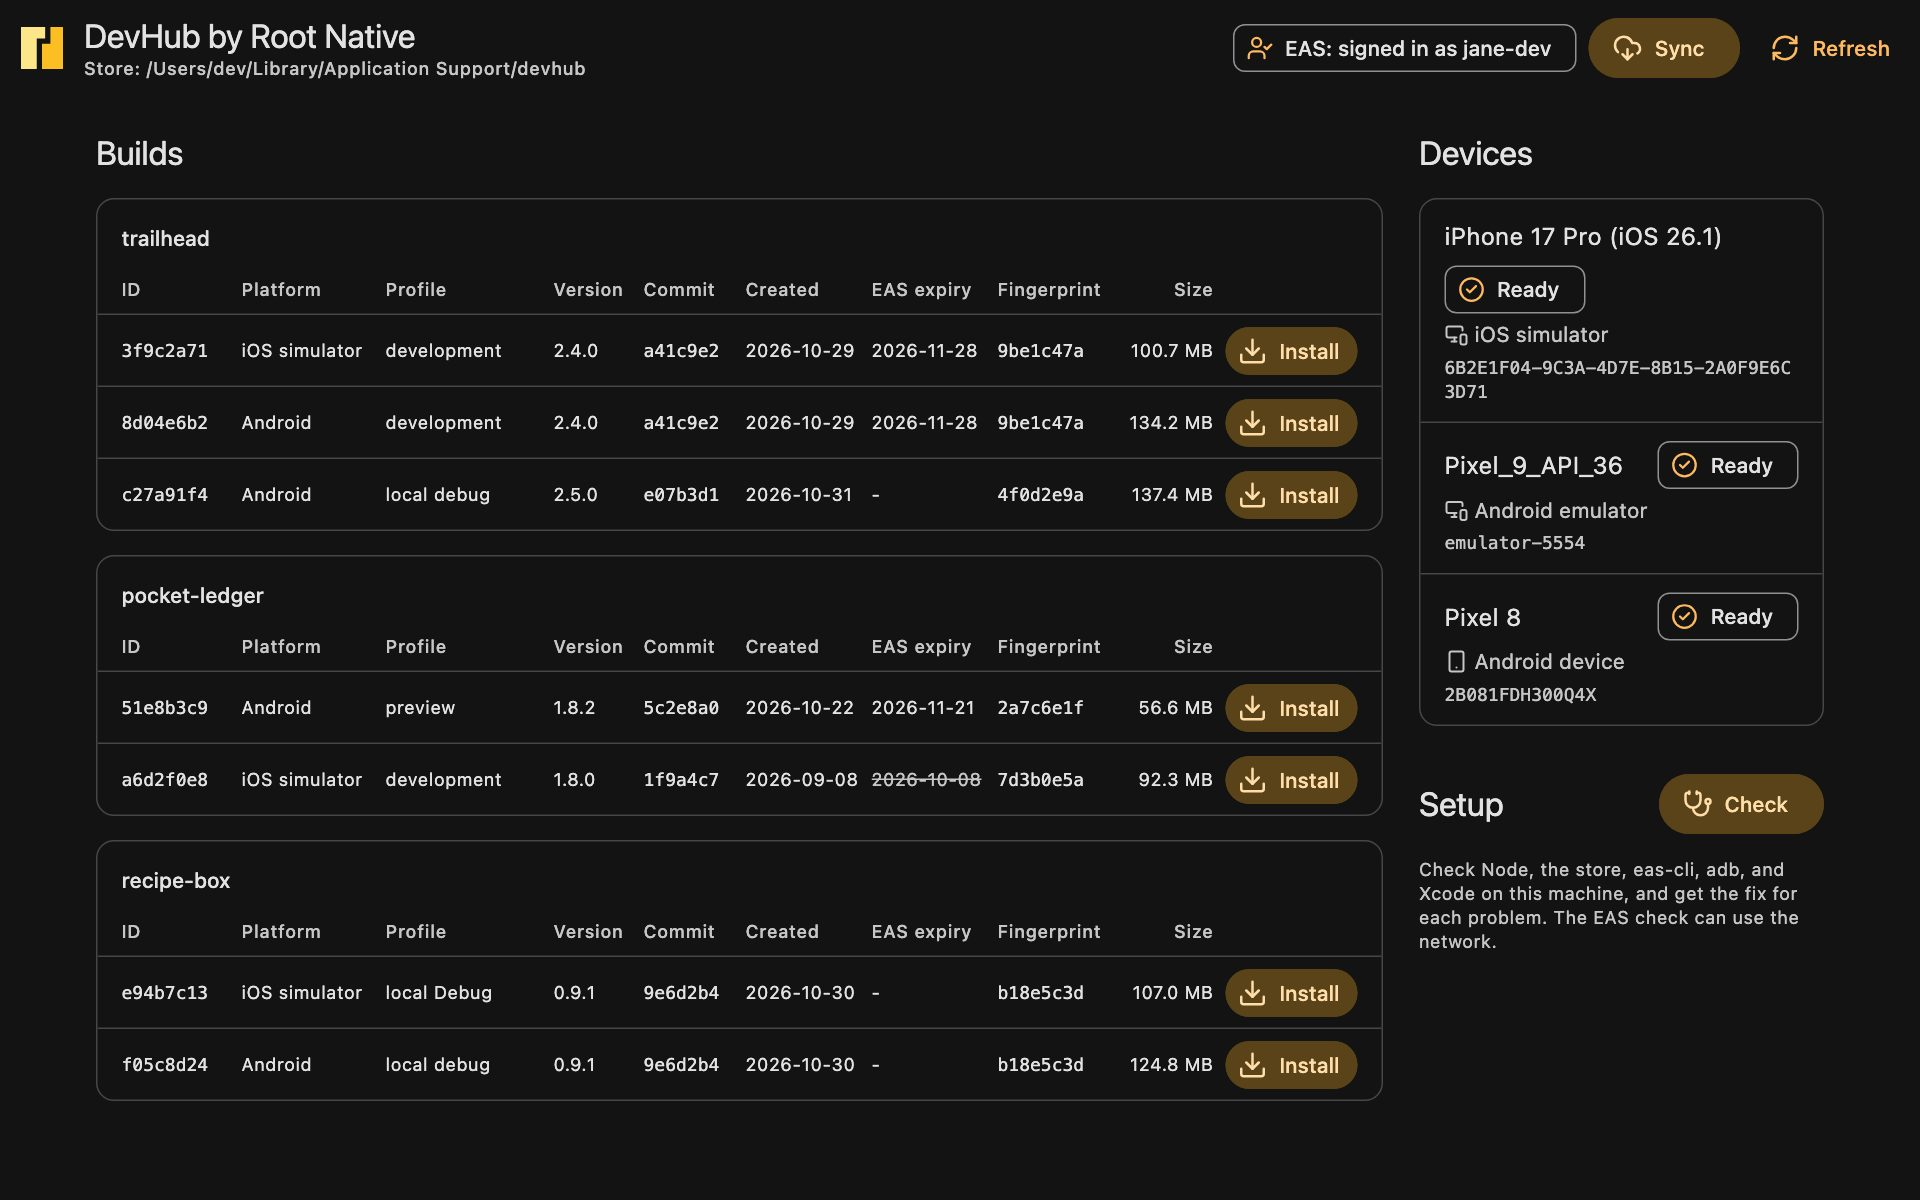
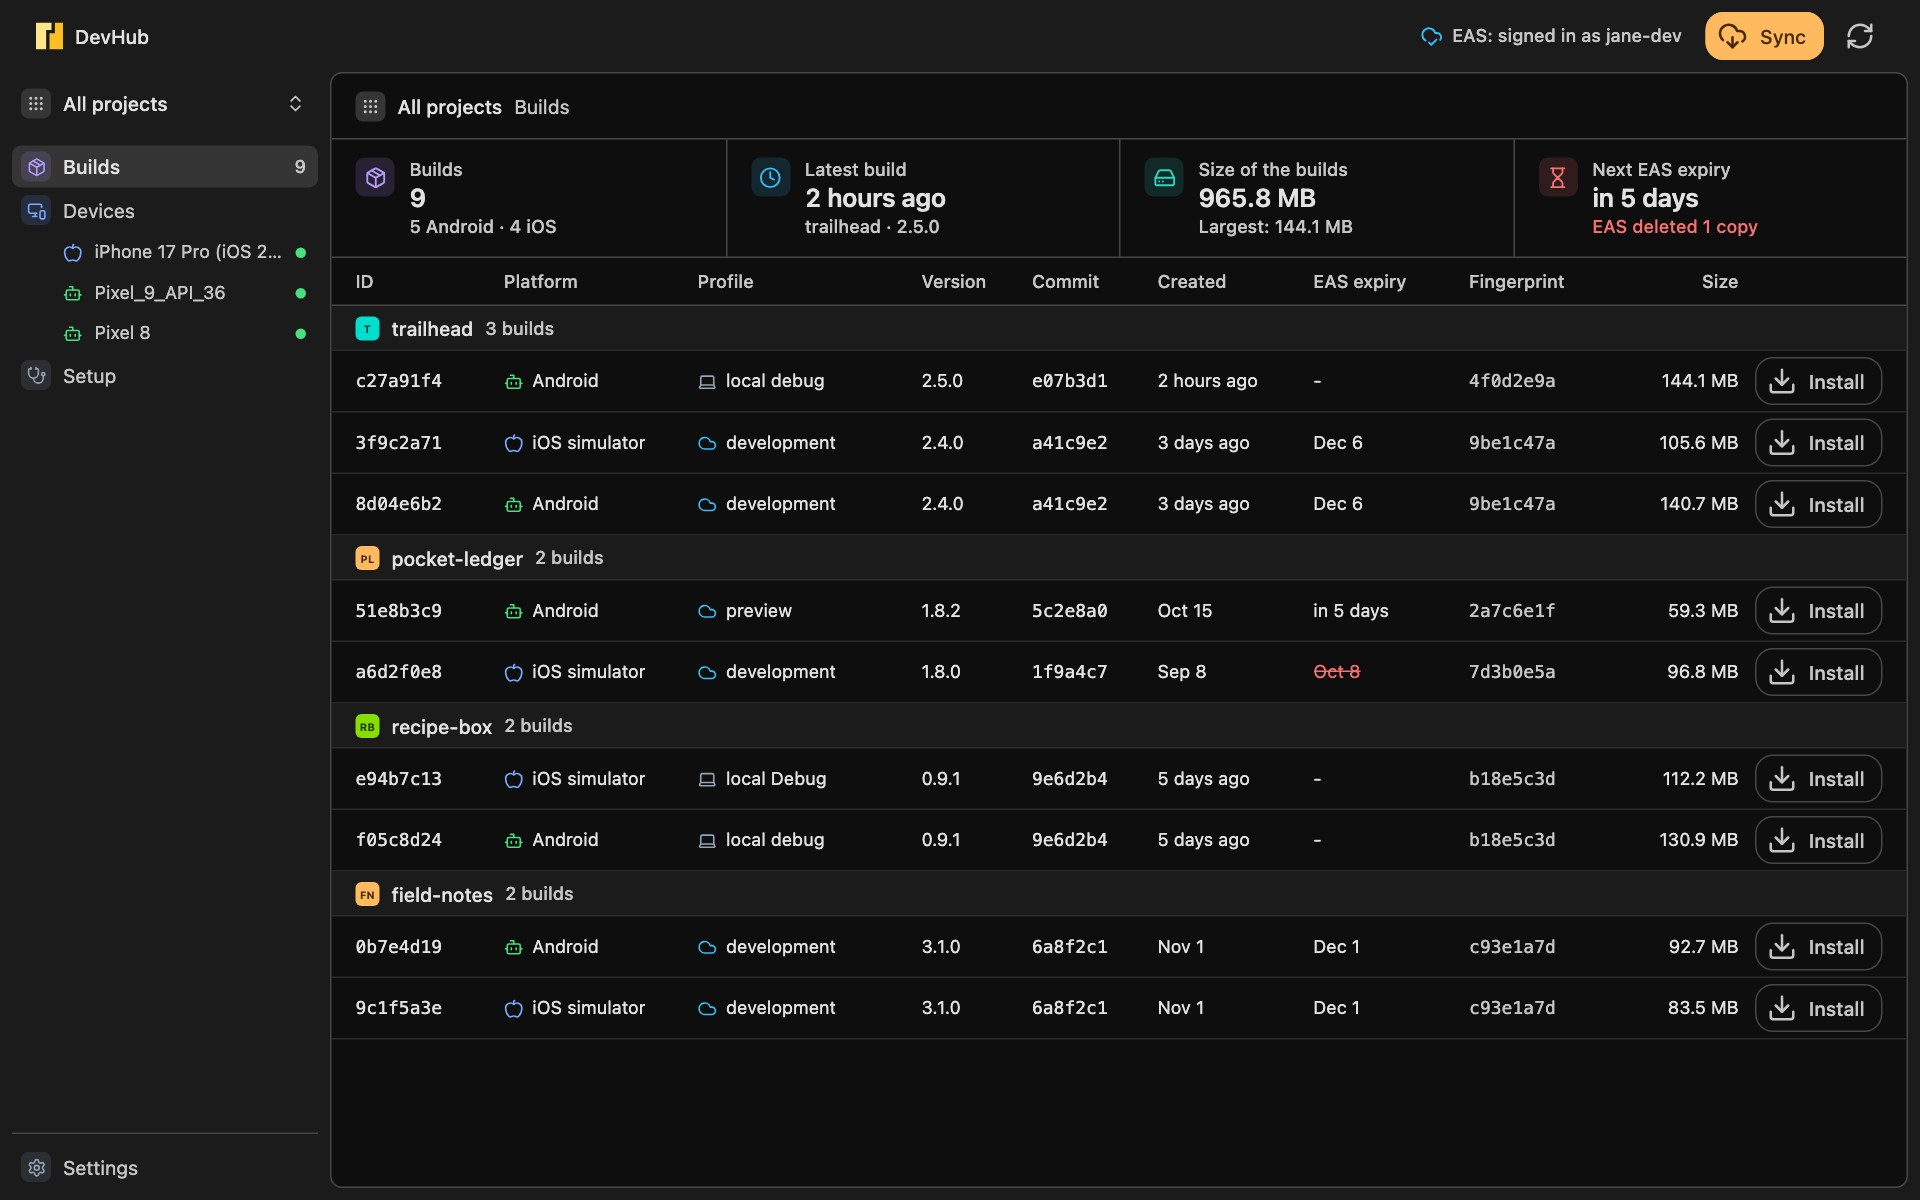
docs: restructure the README and update the page screenshots

diff --git a/README.md b/README.md
@@ -26,9 +26,11 @@
 <p align="center">
   <a href="https://rootnative.github.io/devhub/"><b>Read the docs</b></a>
   ·
+  <a href="#-commands">Commands</a>
+  ·
   <a href="#-quick-start">Quick start</a>
   ·
-  <a href="#-commands">Commands</a>
+  <a href="https://rootnative.github.io/devhub/introduction/">Documentation</a>
   ·
   <a href="https://rootnative.github.io/devhub/llms.txt">LLM docs</a>
 </p>
@@ -36,59 +38,46 @@
 <p align="center">
   <picture>
     <source media="(prefers-color-scheme: dark)" srcset="assets/docs/screenshots/page-dark.jpg" />
-    <img src="assets/docs/screenshots/page-light.jpg" alt="The devhub ui page: three projects with their builds in tables, three ready devices, and the setup check" width="100%" />
+    <img src="assets/docs/screenshots/page-light.jpg" alt="The devhub ui page: a sidebar with the projects, three ready devices, and the setup, a summary of the builds, and the builds of four projects in one table with an Install button on each row" width="100%" />
   </picture>
-  <br />
-  <sub>The <code>devhub ui</code> page on <code>main</code>, with made-up projects. The next release ships this design.</sub>
 </p>
 
-> **Status:** alpha. The CLI, the local page, and the Expo build cache
-> provider are on npm. The desktop app and the launch of an app are not
+> **Status:** an alpha. The CLI, the local page, and the Expo build cache
+> provider are on npm. The desktop app and the launch of an app aren't
 > released yet. Each alpha can change the CLI and its JSON output. The
-> [CHANGELOG](packages/devhub/CHANGELOG.md) lists what each version has.
+> [changelog](packages/devhub/CHANGELOG.md) lists what each version has.
 
 ## ✨ Features
 
-| Feature | What it does | State |
-| --- | --- | --- |
-| **Keep your EAS builds** | `devhub sync` downloads each finished EAS dev client build before EAS deletes it. `devhub sync --all` syncs each project that `devhub sync` saw before. | On npm |
-| **One library for all projects** | One store folder, outside your projects, holds every build of every project. | On npm |
-| **Match by fingerprint** | `devhub match` calculates the native fingerprint with the project's own `@expo/fingerprint`, and shows the stored builds with the same hash. | On npm |
-| **Keep your local builds** | As an Expo build cache provider, DevHub stores each build of `npx expo run:*`, and installs a stored build when the native code did not change. | On npm |
-| **Install in one step** | `devhub install` installs a stored build on a ready emulator, a USB Android device, or a booted iOS simulator. It checks the SHA-256 of the file first. | On npm |
-| **The local page** | `devhub ui` opens a page with the builds, the devices, an install button, and a sync button. | On npm |
-| **Setup checks** | `devhub doctor` checks Node, the store, eas-cli, adb, and Xcode, and gives the fix for each problem. | On npm |
-| **JSON for scripts and agents** | Each command takes `--json`. The `llms.txt` file in the package gives the help, the JSON types, and the API. | On npm |
-| **No telemetry** | DevHub uses the network only for EAS. It never reads, asks for, or stores your EAS token. | On npm |
-| **Desktop app** | The local page in a desktop window, with a daily sync in the background. | In code, not released |
-| **Launch** | Boot a device, install the build, and open the app with Metro or an EAS Update, in one action. | Planned |
-| **Profiles, prune, and import** | Saved pairs of a device and a build, rules that delete old builds, and the import of an `.apk`, `.aab`, or `.app` file. | Planned |
+| Feature | What it does |
+| --- | --- |
+| **Keep your EAS builds** | `devhub sync` downloads each finished EAS dev client build before EAS deletes it. `devhub sync --all` syncs each project that `devhub sync` saw before. |
+| **One library for all projects** | One store folder, outside your projects, holds every build of every project. |
+| **Match by fingerprint** | `devhub match` calculates the native fingerprint with the project's own `@expo/fingerprint`, and shows the stored builds with the same hash. |
+| **Keep your local builds** | As an Expo build cache provider, DevHub stores each build of `npx expo run:*`, and installs a stored build when the native code didn't change. |
+| **Install in one step** | `devhub install` installs a stored build on a ready emulator, a USB Android device, or a booted iOS simulator. It checks the SHA-256 of the file first. |
+| **The local page** | `devhub ui` opens a page with the builds, the devices, an install button, and a sync button. |
+| **Setup checks** | `devhub doctor` checks Node, the store, eas-cli, adb, and Xcode, and gives the fix for each problem. |
+| **JSON for scripts and agents** | Each command takes `--json`. The `llms.txt` file in the package gives the help, the JSON types, and the API. |
+| **No telemetry** | DevHub uses the network only for EAS. It never reads, asks for, or stores your EAS token. |
 
-Android works on macOS, Windows, and Linux. iOS works on macOS.
+## 💻 Commands
 
-<p align="center">
-  <picture>
-    <source media="(prefers-color-scheme: dark)" srcset="assets/docs/screenshots/page-narrow-dark.jpg" />
-    <img src="assets/docs/screenshots/page-narrow-light.jpg" alt="The devhub ui page in a narrow window: each build is a row with its version, its commit, its EAS expiry date, and an Install button" width="40%" />
-  </picture>
-  <br />
-  <sub>In a narrow window, each build is a row.</sub>
-</p>
+| Command | What it does |
+| --- | --- |
+| [`devhub sync`](https://rootnative.github.io/devhub/commands/sync/) | Downloads each finished EAS dev client build of the project in the current folder that the store doesn't have. `--all` syncs each project. |
+| [`devhub list`](https://rootnative.github.io/devhub/commands/list/) | Shows the stored builds: project, platform, profile, app version, git commit, date, and the EAS expiry date. |
+| [`devhub where <id>`](https://rootnative.github.io/devhub/commands/where/) | Prints the path of a stored build file. |
+| [`devhub devices`](https://rootnative.github.io/devhub/commands/devices/) | Lists the Android emulators and devices that adb sees, and on macOS the booted iOS simulators. |
+| [`devhub install <id>`](https://rootnative.github.io/devhub/commands/install/) | Installs a stored build on a ready Android emulator or device, or on a booted iOS simulator. |
+| [`devhub match`](https://rootnative.github.io/devhub/commands/match/) | Calculates the native fingerprint of the current project, and shows the stored builds with the same fingerprint. |
+| [`devhub ui`](https://rootnative.github.io/devhub/commands/ui/) | Starts a local server, and opens the DevHub page in the browser. |
+| [`devhub whoami`](https://rootnative.github.io/devhub/commands/whoami/) | Shows the EAS login state. |
+| [`devhub doctor`](https://rootnative.github.io/devhub/commands/doctor/) | Checks the tools and the store, and gives the fix for each problem. |
 
-## 💡 Why
-
-Expo recommends a development build in place of Expo Go. When you work on
-many Expo projects, you get these problems:
-
-- Each project needs its own dev client for each platform.
-- EAS deletes old builds after a retention period.
-- A native build takes minutes. But most of the time the native code did not
-  change, and the old build still works.
-- Nothing shows which builds you have, and which one matches your branch.
-
-A dev client needs a rebuild only when the native fingerprint changes.
-DevHub stores each build with its fingerprint. When your code matches a
-stored build, DevHub uses that build, and you do not build again.
+Each command takes `--json`. Results go to stdout, and progress and warnings
+go to stderr. The exit code is `0` for success, `1` for a failure, and `2`
+for a usage error.
 
 ## 🚀 Quick start
 
@@ -109,7 +98,7 @@ To run one command with no install, use `npx @rootnative/devhub <command>`.
 
 > [!NOTE]
 > A dev client is a debug build. Its JavaScript runs in development mode, so
-> it does not show the real speed of your app in production.
+> it doesn't show the real speed of your app in production.
 
 ### Keep your local builds
 
@@ -129,7 +118,7 @@ npm install --save-dev @rootnative/devhub
 
 The first `npx expo run:android` builds the app, and DevHub stores the APK.
 The next run with the same native code installs the stored APK, and Gradle
-does not run. iOS works the same for a simulator. Read
+doesn't run. iOS works the same for a simulator. Read
 [Keep your local builds](https://rootnative.github.io/devhub/guides/local-builds/)
 for each rule.
 
@@ -139,23 +128,20 @@ for each rule.
 > [Sync every day](https://rootnative.github.io/devhub/guides/daily-sync/)
 > shows the setup for cron, launchd, and Task Scheduler.
 
-## 🧰 Commands
+## 💡 Why DevHub
 
-| Command | What it does |
-| --- | --- |
-| [`devhub sync`](https://rootnative.github.io/devhub/commands/sync/) | Downloads each finished EAS dev client build of the project in the current folder that the store does not have. `--all` syncs each project. |
-| [`devhub list`](https://rootnative.github.io/devhub/commands/list/) | Shows the stored builds: project, platform, profile, app version, git commit, date, and the EAS expiry date. |
-| [`devhub where <id>`](https://rootnative.github.io/devhub/commands/where/) | Prints the path of a stored build file. |
-| [`devhub devices`](https://rootnative.github.io/devhub/commands/devices/) | Lists the Android emulators and devices that adb sees, and on macOS the booted iOS simulators. |
-| [`devhub install <id>`](https://rootnative.github.io/devhub/commands/install/) | Installs a stored build on a ready Android emulator or device, or on a booted iOS simulator. |
-| [`devhub match`](https://rootnative.github.io/devhub/commands/match/) | Calculates the native fingerprint of the current project, and shows the stored builds with the same fingerprint. |
-| [`devhub ui`](https://rootnative.github.io/devhub/commands/ui/) | Starts a local server, and opens the DevHub page in the browser. |
-| [`devhub whoami`](https://rootnative.github.io/devhub/commands/whoami/) | Shows the EAS login state. |
-| [`devhub doctor`](https://rootnative.github.io/devhub/commands/doctor/) | Checks the tools and the store, and gives the fix for each problem. |
+Expo recommends a development build in place of Expo Go. When you work on
+many Expo projects, you get these problems:
 
-Each command takes `--json`. Results go to stdout, and progress and warnings
-go to stderr. The exit code is `0` for success, `1` for a failure, and `2`
-for a usage error.
+- Each project needs its own dev client for each platform.
+- EAS deletes old builds after a retention period.
+- A native build takes minutes. But most of the time the native code didn't
+  change, and the old build still works.
+- Nothing shows which builds you have, and which one matches your branch.
+
+A dev client needs a rebuild only when the native fingerprint changes.
+DevHub stores each build with its fingerprint. When your code matches a
+stored build, DevHub uses that build, and you don't build again.
 
 ## 🧭 How it works
 
@@ -179,11 +165,25 @@ flowchart LR
 - **One store for all projects.** The store is plain files in the data
   folder of your system, never inside a project. `DEVHUB_HOME` moves it.
 - **Commands as arrays.** DevHub runs adb, simctl, and eas-cli with an array
-  of arguments, never a shell string. A space or a quote in a path cannot
+  of arguments, never a shell string. A space or a quote in a path can't
   change a command.
 - **Public eas-cli commands only.** DevHub never calls a private EAS API.
 - **A local page.** The `devhub ui` server listens on `127.0.0.1` only. Each
   run makes a new token, and each API call must send it.
+
+## 📅 Requirements
+
+| Tool | Necessary for |
+| --- | --- |
+| Node 20.19 or later | Each command |
+| Expo SDK 52 or later in the project | `devhub match` |
+| eas-cli, with a login | `devhub sync` |
+| adb (Android SDK Platform-Tools) | Android emulators and devices |
+| Xcode | iOS simulators |
+
+Android works on macOS, Windows, and Linux. iOS works on macOS.
+[Installation](https://rootnative.github.io/devhub/installation/) shows the
+setup of each tool.
 
 ## 🗺 Roadmap
 
@@ -198,15 +198,18 @@ DevHub grows in small milestones. Each one gives you one useful result.
 | Local page | `devhub ui` opens a page with the list, the devices, an install button, and a sync button | On npm. A new design is on `main`. |
 | Doctor | `devhub doctor` checks the tools and the store, and gives the fix for each problem | On npm |
 | Desktop | The local page in a desktop app, with a daily sync in the background | In code, not released |
+| Launch | Boot a device, install the build, and open the app with Metro or an EAS Update, in one action | Planned |
+| Profiles, prune, and import | Saved pairs of a device and a build, rules that delete old builds, and the import of an `.apk`, `.aab`, or `.app` file | Planned |
 
 ## 🤖 Docs for AI agents
 
 Each command takes `--json`, so an agent reads the same output as the local
-page. The package ships `llms.txt` with the help of each command, the type of
-each JSON output, and the core API of the installed version:
-`node_modules/@rootnative/devhub/llms.txt`. The docs site serves the same
-file at [llms.txt](https://rootnative.github.io/devhub/llms.txt). Read
-[For AI agents](https://rootnative.github.io/devhub/reference/ai-agents/).
+page. The package ships an [llms.txt](https://llmstxt.org/) file with the
+help of each command, the type of each JSON output, and the core API of its
+version: `node_modules/@rootnative/devhub/llms.txt`. The docs site serves the
+same file at [llms.txt](https://rootnative.github.io/devhub/llms.txt). The
+[For AI agents](https://rootnative.github.io/devhub/reference/ai-agents/)
+page explains how to use it.
 
 ## 📚 Documentation
 
@@ -222,20 +225,22 @@ file at [llms.txt](https://rootnative.github.io/devhub/llms.txt). Read
 | [Security and privacy](https://rootnative.github.io/devhub/reference/security/) | Learn what DevHub reads, writes, and sends |
 | [Package README](packages/devhub/README.md) | Read the full CLI reference |
 
-## 🔧 Tech stack
+## 🧰 Tech stack
 
 | Layer | Technology |
 | --- | --- |
-| CLI and core | Node 20.19 or later, TypeScript 5.9 in strict mode, ESM |
+| Runtime | Node 20.19 or later, ESM |
 | Runtime dependencies | `cross-spawn` and `json5`, nothing else |
-| Build | tsup, Turborepo 2 |
+| Language | TypeScript 5, strict mode |
+| Build | tsup (ESM output), Turborepo |
+| Package manager | pnpm 10 |
 | Tests | Vitest 3, on Linux, macOS, and Windows |
 | Local page | An Expo SDK 58 app, exported for the web, and shipped inside the package |
 | Desktop app | Electron 44 |
 | Docs | Docusaurus 3 |
 | Delivery | GitHub Actions, GitHub Pages, and npm with trusted publishing |
 
-## 🛠 Development
+## 🔧 Development
 
 You need Node.js 24 (the version in `.nvmrc`) and pnpm 10.
 
@@ -266,7 +271,7 @@ node packages/devhub/dist/bin.js --help
 node packages/devhub/dist/bin.js ui
 ```
 
-To run one test file:
+To run one test file, name the package first:
 
 ```bash
 pnpm --filter @rootnative/devhub test -- src/__tests__/cli.test.ts
@@ -281,7 +286,7 @@ pnpm --filter @rootnative/devhub test -- src/__tests__/cli.test.ts
 | [apps/web/](apps/web/) | The `devhub ui` page. Private. The package ships its build. |
 | [apps/desktop/](apps/desktop/) | The Electron app. Private. |
 | [docs/](docs/) | The Docusaurus docs site. Private. |
-| [example/](example/) | The Expo app that the cache provider check builds. Run it through `example/with-store.mjs`, so a test build does not go into your own store. |
+| [example/](example/) | The Expo app that the cache provider check builds. Run it through `example/with-store.mjs`, so a test build doesn't go into your own store. |
 | [scripts/](scripts/) | The `llms.txt` generator, the package and release checks, and the brand generator |
 
 </details>
@@ -291,6 +296,13 @@ pnpm --filter @rootnative/devhub test -- src/__tests__/cli.test.ts
 To report a vulnerability, read [SECURITY.md](SECURITY.md). To learn what
 DevHub reads, writes, and sends, read
 [Security and privacy](https://rootnative.github.io/devhub/reference/security/).
+
+## 🙏 Credits
+
+- [`@expo/fingerprint`](https://www.npmjs.com/package/@expo/fingerprint) by
+  Expo calculates the native fingerprint that matches a build to your code.
+- [EAS CLI](https://github.com/expo/eas-cli) by Expo lists and downloads the
+  EAS builds.
 
 ## 📄 License
 
